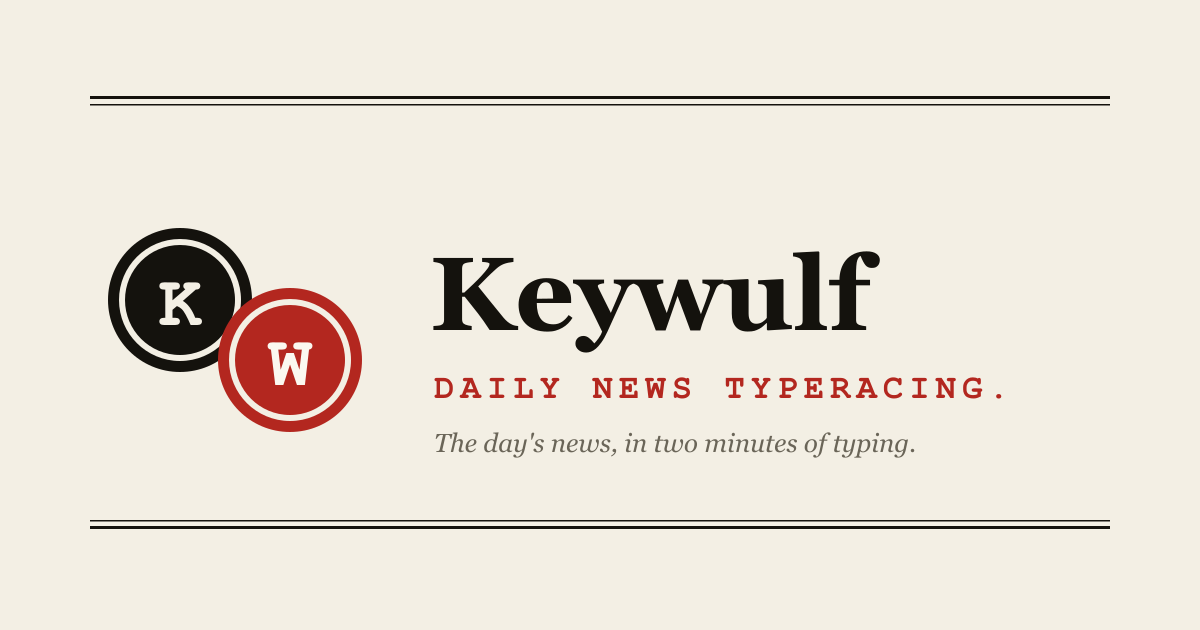
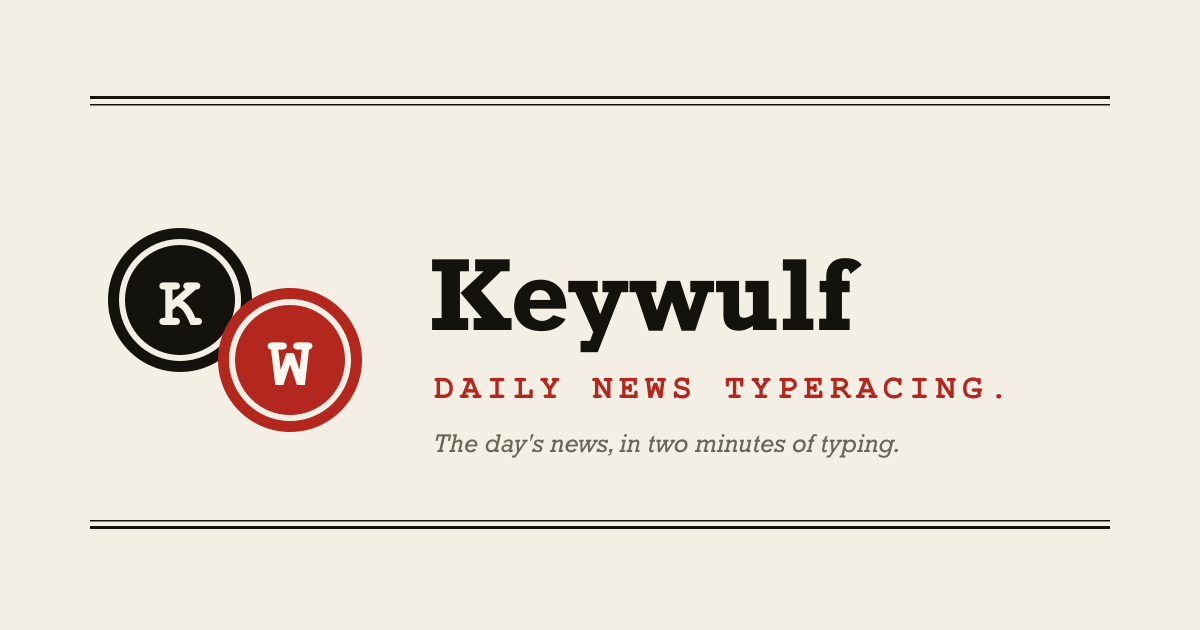
Brand distance + gentler texts: Bitter slab serif, continuity + typability nudges
- Serif swapped Libre Baskerville -> Bitter (slab): keeps the newsprint
  register and pairs with Courier Prime while breaking the resemblance to a
  well-known AI assistant's soft-serif-on-cream branding. OG card re-rendered.
- Format prompt (future generations only; today's text untouched):
  * CONTINUITY section fed by yesterday's live headlines (fetched non-fatally,
    guarded against same-day regeneration): lead with what is NEW, never reuse
    yesterday's headline wording, drop stories with no new development.
  * Headlines in sentence case - Title Case runs of consecutive capitals were
    reported as hostile to type - plus prefer plain vocabulary and avoid
    stacked proper-noun lists.

Changed region(s): [[0.3392, 0.3921, 0.74, 0.5429], [0.37, 0.6937, 0.7708, 0.7238]]

diff --git a/scripts/prompts.ts b/scripts/prompts.ts
@@ -28,8 +28,24 @@ Plain text only. No JSON yet.`;
 }
 
 /** Step 2: tool-free JSON-mode formatting of the notes into the briefing. */
-export function formatPrompt(notes: string, date: string, feedback?: string): string {
+export function formatPrompt(
+  notes: string,
+  date: string,
+  previousHeadlines: string[] = [],
+  feedback?: string,
+): string {
+  const continuity =
+    previousHeadlines.length > 0
+      ? `
+CONTINUITY (yesterday's briefing covered the stories below)
+${previousHeadlines.map((h) => '- ' + h).join('\n')}
+- For a story continuing from yesterday, lead with what is NEW today (fresh numbers, decisions, developments) rather than restating yesterday's summary.
+- Never reuse yesterday's headline wording for a continuing story.
+- Drop a story with no new development since yesterday unless it remains clearly top-tier significant.
+`
+      : '';
   return `Below are today's research notes (${date}, UTC). Compress them into the Keywulf daily briefing as JSON.
+${continuity}
 
 SELECTION (hard requirements)
 - Output BETWEEN 12 AND 14 stories. If strict 24-hour recency leaves fewer than 12, include the freshest remaining items up to 48 hours old rather than returning fewer than 12.
@@ -41,6 +57,8 @@ WORD BUDGET (HARD CAP: 300 total words across all headlines+bodies; target 170 t
 - Budget arithmetic: at 14 stories you have about 20 words per story TOTAL (headline + body combined), so keep headlines near 5 words and bodies near 13.
 - If the draft runs over budget, CUT WHOLE STORIES from the bottom rather than mangling sentences.
 - Headlines end WITHOUT punctuation; publishing code appends a period automatically.
+- Headlines in SENTENCE CASE: capitalize only the first word and proper nouns ("Typhoon forces mass evacuations in eastern China", never "Typhoon Forces Mass Evacuations In Eastern China"). This text is typed by hand; long runs of consecutive capitals are hostile to type.
+- Prefer plain, common vocabulary where accuracy permits, and avoid stacking long proper-noun lists into a single clause when a lighter phrasing exists.
 - Wire-service compression. Cut every word that does not earn its place.
 
 VOICE

diff --git a/scripts/generate-daily.ts b/scripts/generate-daily.ts
@@ -141,9 +141,34 @@ async function research(ai: GoogleGenAI): Promise<{ notes: string; sources: RawS
   throw new Error(`Research failed after ${MAX_ATTEMPTS} attempts: ${lastError}`);
 }
 
+/**
+ * Yesterday's headlines, fetched from the live site, feed the format prompt's
+ * continuity rules (lead with what is NEW; never reuse yesterday's wording).
+ * Non-fatal: any failure just means no continuity section. Guarded so a
+ * same-day regeneration never treats its own stories as "yesterday's".
+ */
+async function fetchPreviousHeadlines(): Promise<string[]> {
+  try {
+    const res = await fetch(`https://keywulf.com/data/today.json?v=${Date.now()}`, {
+      signal: AbortSignal.timeout(10_000),
+    });
+    const j = (await res.json()) as { date?: string; stories?: Array<{ headline?: string }> };
+    if (!j?.date || j.date >= DATE || !Array.isArray(j.stories)) return [];
+    return j.stories.map((s) => String(s.headline ?? '')).filter(Boolean).slice(0, 16);
+  } catch {
+    return [];
+  }
+}
+
 async function main(): Promise<void> {
   const ai = new GoogleGenAI({ apiKey: API_KEY });
   const { notes, sources: rawSources } = await research(ai);
+  const previousHeadlines = await fetchPreviousHeadlines();
+  console.log(
+    previousHeadlines.length > 0
+      ? `Continuity: ${previousHeadlines.length} headlines from the previous briefing.`
+      : 'Continuity: no previous briefing available.',
+  );
 
   // Grounding gives opaque redirect URLs titled only with a domain. Resolve
   // them (server-side, once per day) to real article URLs + real titles so the
@@ -171,7 +196,7 @@ async function main(): Promise<void> {
     try {
       const response = await ai.models.generateContent({
         model: MODEL,
-        contents: formatPrompt(notes, DATE, feedback),
+        contents: formatPrompt(notes, DATE, previousHeadlines, feedback),
         config: {
           systemInstruction: SYSTEM_INSTRUCTION,
           responseMimeType: 'application/json',

diff --git a/src/main.tsx b/src/main.tsx
@@ -3,13 +3,14 @@ import { createRoot } from 'react-dom/client';
 
 // Self-hosted via @fontsource (bundled + fingerprinted by Vite). No third-party
 // font request blocks gameplay. Two typefaces:
-//   Libre Baskerville - bookish English serif for the masthead, headlines, and
-//     prose (the newspaper / humanities register).
+//   Bitter - a slab serif for the masthead, headlines, and prose. Newsprint
+//     register that pairs with the typewriter mono (deliberately NOT a soft
+//     old-style serif, which read too close to certain AI-assistant branding).
 //   Courier Prime - a refined typewriter monospace for the typing passage, the
 //     HUD numerals, and all labels (the teletype / typewriter register).
-import '@fontsource/libre-baskerville/400.css';
-import '@fontsource/libre-baskerville/700.css';
-import '@fontsource/libre-baskerville/400-italic.css';
+import '@fontsource/bitter/400.css';
+import '@fontsource/bitter/700.css';
+import '@fontsource/bitter/400-italic.css';
 import '@fontsource/courier-prime/400.css';
 import '@fontsource/courier-prime/700.css';
 

diff --git a/src/index.css b/src/index.css
@@ -12,9 +12,9 @@
 :root {
   color-scheme: light dark;
 
-  /* Type: bookish English serif for prose/masthead; typewriter mono for the
-     passage, numerals, and labels. */
-  --font-serif: 'Libre Baskerville', 'Iowan Old Style', 'Palatino Linotype', Georgia, 'Times New Roman', serif;
+  /* Type: slab serif for prose/masthead (newsprint register); typewriter mono
+     for the passage, numerals, and labels. */
+  --font-serif: 'Bitter', Rockwell, 'Roboto Slab', 'Courier New', Georgia, serif;
   --font-mono: 'Courier Prime', 'Courier New', ui-monospace, 'Cascadia Mono', monospace;
 
   /* Live performance signal (updated imperatively during play). */
